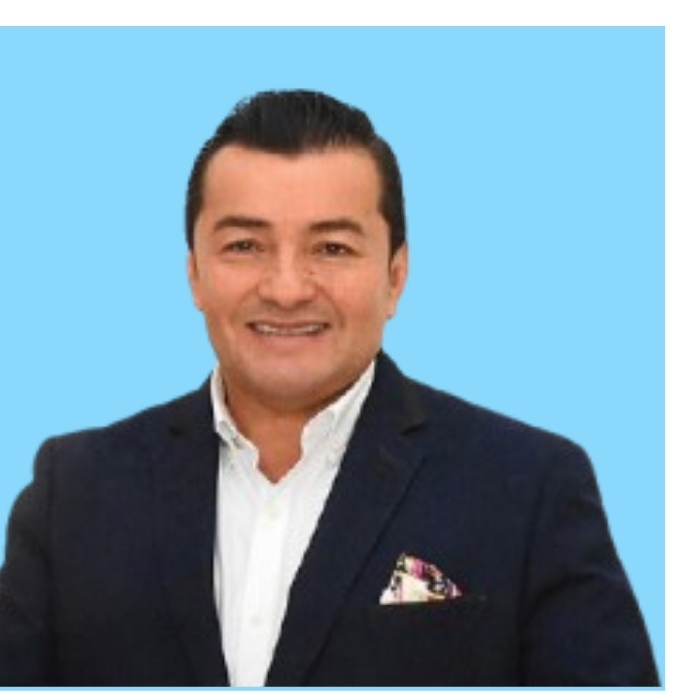
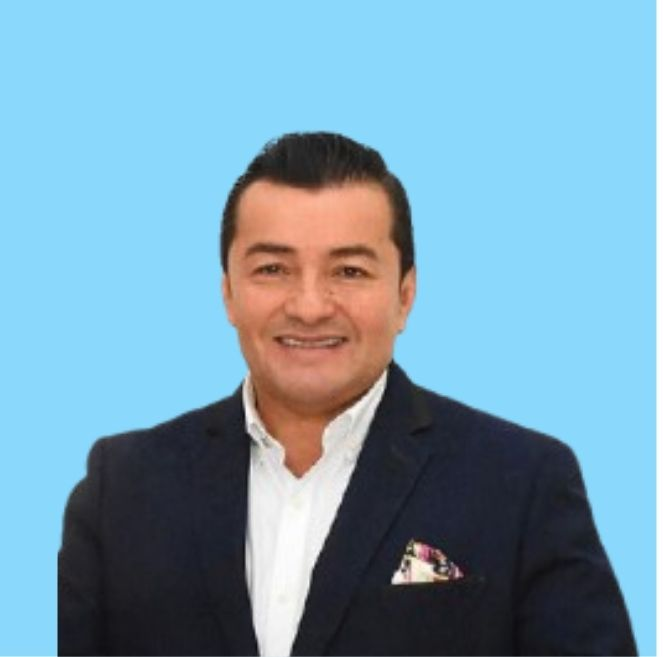
cambios en imagenes ajuste de bordes  y tambien ajuste para compatabilidad movil

diff --git a/components/DepartmentalDashboard.js b/components/DepartmentalDashboard.js
@@ -3,6 +3,7 @@
 
 import React, { useState, useEffect } from 'react';
 import { CANDIDATES } from '../config/candidates';
+import Image from 'next/image';
 
 // --- Estilos ---
 const dashboardStyle = {
@@ -34,9 +35,8 @@ const selectStyle = {
 
 const resultsContainerStyle = {
   display: 'grid',
-  // Se ajusta el número de columnas según el espacio disponible
   gridTemplateColumns: 'repeat(auto-fill, minmax(130px, 1fr))',
-  gap: '30px 20px', // Espacio vertical y horizontal
+  gap: '30px 20px',
 };
 
 const candidateWrapperStyle = {
@@ -55,13 +55,12 @@ const imageStyle = {
   boxShadow: '0 2px 6px rgba(0,0,0,0.15)',
 };
 
-// ✅ Contenedor para el texto que asegura una altura fija
 const textContainerStyle = {
   marginTop: '10px',
-  height: '60px', // Altura fija para alinear todo
+  height: '60px',
   display: 'flex',
   flexDirection: 'column',
-  justifyContent: 'space-between', // Distribuye el espacio
+  justifyContent: 'space-between',
 };
 
 const nameStyle = {
@@ -80,28 +79,33 @@ const percentageStyle = (color) => ({
 
 // --- Componente ---
 export default function DepartmentalDashboard({ allDepartments, departmentalData, nationalData }) {
-  const [selectedDept, setSelectedDept] = useState('');
+  // ✅ 1. El estado ahora inicia en "NIVEL NACIONAL" por defecto.
+  const [selectedDept, setSelectedDept] = useState('NIVEL NACIONAL');
 
   useEffect(() => {
-    if (allDepartments.length > 1) {
-      setSelectedDept(allDepartments.find(dept => dept !== 'NIVEL NACIONAL') || '');
+    // Si la lista de departamentos cambia y el seleccionado no está, se reajusta.
+    if (allDepartments.length > 0 && !allDepartments.includes(selectedDept)) {
+      setSelectedDept('NIVEL NACIONAL');
     }
   }, [allDepartments]);
 
   const calculatePercentage = (votes, total) => (total > 0 ? (votes / total) * 100 : 0);
   
-  const departmentsOnly = allDepartments.filter(dept => dept !== 'NIVEL NACIONAL');
-
-  const dataToShow = departmentalData[selectedDept];
-  const totalVotes = dataToShow?.votos_totales;
+  // ✅ 2. Lógica unificada para seleccionar los datos a mostrar.
+  const isNationalView = selectedDept === 'NIVEL NACIONAL';
+  const dataToShow = isNationalView ? nationalData : departmentalData[selectedDept];
+  const totalVotes = isNationalView ? nationalData.grandTotal : dataToShow?.votos_totales;
 
   const candidateResults = dataToShow
     ? Object.keys(CANDIDATES)
-        .map(id => ({
-          id: id,
-          ...CANDIDATES[id],
-          percentage: calculatePercentage(dataToShow[`votos_${id}`], totalVotes),
-        }))
+        .map(id => {
+          const votes = isNationalView ? dataToShow[`votos_${id}`] : dataToShow[`votos_${id}`];
+          return {
+            id: id,
+            ...CANDIDATES[id],
+            percentage: calculatePercentage(votes || 0, totalVotes || 0),
+          };
+        })
         .sort((a, b) => b.percentage - a.percentage)
     : [];
 
@@ -109,20 +113,30 @@ export default function DepartmentalDashboard({ allDepartments, departmentalData
     <div style={dashboardStyle}>
       <h2 style={headerStyle}>Análisis por Región</h2>
 
-      <select value={selectedDept} onChange={(e) => setSelectedDept(e.target.value)} style={selectStyle}>
-        {departmentsOnly.map(dept => (
+      <select
+        value={selectedDept}
+        onChange={(e) => setSelectedDept(e.target.value)}
+        style={selectStyle}
+      >
+        {/* ✅ 3. Aseguramos que "NIVEL NACIONAL" esté siempre en la lista del filtro. */}
+        {allDepartments.map(dept => (
           <option key={dept} value={dept}>
             {dept}
           </option>
         ))}
       </select>
       
-      {candidateResults.length > 0 ? (
+      {candidateResults.length > 0 && totalVotes > 0 ? (
         <div style={resultsContainerStyle}>
           {candidateResults.map(candidate => (
             <div key={candidate.id} style={candidateWrapperStyle}>
-              <img src={candidate.image} alt={candidate.nombre} style={imageStyle} />
-              {/* ✅ Contenedor de texto aplicado aquí */}
+              <Image 
+                src={candidate.image} 
+                alt={candidate.nombre}
+                width={80}
+                height={80}
+                style={imageStyle} 
+              />
               <div style={textContainerStyle}>
                 <div style={nameStyle}>{candidate.nombre}</div>
                 <div style={percentageStyle(candidate.color)}>{candidate.percentage.toFixed(1)}%</div>

diff --git a/components/ShareModal.js b/components/ShareModal.js
@@ -13,6 +13,8 @@ const modalContentStyle = {
 const closeButtonStyle = {
   background: 'transparent', border: 'none', position: 'absolute',
   top: '10px', right: '15px', fontSize: '24px', cursor: 'pointer',
+  // ✅ Color oscuro para el botón de cerrar
+  color: '#888',
 };
 const shareButtonStyle = {
     display: 'flex', alignItems: 'center', justifyContent: 'center',
@@ -24,8 +26,8 @@ const shareButtonStyle = {
 
 export default function ShareModal({ closeModal }) {
     const shareText = "¡Ya participé en el mapa electoral de #BoliviaDecide! Mira los resultados en tiempo real y suma tu voz: ";
-    // ⬇ ¡IMPORTANTE! Cambia esto por tu URL real cuando publiques el proyecto
-    const shareUrl = "https://bolivia-elecciones.vercel.app/"; // URL de ejemplo
+    // ⬇ ¡IMPORTANTE! Cambia esto por tu URL real de Vercel
+    const shareUrl = "https://bolivia-decide-app.vercel.app/"; // URL de ejemplo
 
     const twitterUrl = `https://twitter.com/intent/tweet?text=${encodeURIComponent(shareText)}&url=${encodeURIComponent(shareUrl)}`;
     const facebookUrl = `https://www.facebook.com/sharer/sharer.php?u=${encodeURIComponent(shareUrl)}`;
@@ -35,8 +37,11 @@ export default function ShareModal({ closeModal }) {
         <div style={modalOverlayStyle} onClick={closeModal}>
             <div style={modalContentStyle} onClick={(e) => e.stopPropagation()}>
                 <button style={closeButtonStyle} onClick={closeModal}>&times;</button>
-                <h2 style={{marginTop: '10px'}}>¡Gracias por Votar!</h2>
-                <p>Tu voz es importante. ¡Ayuda a que otros participen!</p>
+                
+                {/* ✅ CORRECCIÓN: Se añadió un color de texto oscuro */}
+                <h2 style={{marginTop: '10px', color: '#333'}}>¡Gracias por Votar!</h2>
+                <p style={{color: '#555'}}>Tu voz es importante. ¡Ayuda a que otros participen!</p>
+                
                 <div>
                     <a href={twitterUrl} target="_blank" rel="noopener noreferrer" style={{ ...shareButtonStyle, backgroundColor: '#1DA1F2' }}>Compartir en X (Twitter)</a>
                     <a href={facebookUrl} target="_blank" rel="noopener noreferrer" style={{ ...shareButtonStyle, backgroundColor: '#1877F2' }}>Compartir en Facebook</a>

diff --git a/app/page.js b/app/page.js
@@ -24,7 +24,7 @@ const headerStyle = {
   borderBottom: '1px solid #dee2e6',
   marginBottom: '20px',
   backgroundColor: '#f8f9fa',
-  position: 'relative',
+  position: 'relative', // Necesario para la barra tricolor
 };
 
 const tricolorBarStyle = {
@@ -106,17 +106,21 @@ export default function Home() {
   return (
     <main>
       <header style={headerStyle}>
-        <div style={tricolorBarStyle}>
+        <div style={tricolorBarStyle} className="tricolor-bar">
           <div style={{ flex: 1, backgroundColor: '#d92121' }}></div>
           <div style={{ flex: 1, backgroundColor: '#f2c500' }}></div>
           <div style={{ flex: 1, backgroundColor: '#34C759' }}></div>
         </div>
-
-        <div className="header-content" style={{ maxWidth: '1200px', margin: '0 auto' }}>
+        
+        {/* ✅ ESTRUCTURA SIMPLIFICADA PARA EVITAR ERRORES */}
+        <div className="header-content" style={{ maxWidth: '1200px', margin: '0 auto', padding: '0 20px' }}>
           <div className="title-container">
-            <h1 style={titleStyle}>Bolivia Decide</h1>
-            {/* ✅ LÍNEA CORREGIDA PARA EL DEPLOY */}
-            <p style={sloganStyle}>{`"Tu opinión cuenta. Y ahora, se muestra."`}</p>
+            <h1 style={titleStyle} className="main-title">
+              Bolivia Decide
+            </h1>
+            <p style={sloganStyle} className="slogan">
+              {`"Tu opinión cuenta. Y ahora, se muestra."`}
+            </p>
           </div>
           <div className="share-button-container">
             <button 
@@ -148,7 +152,6 @@ export default function Home() {
           justify-content: space-between;
           align-items: center;
           gap: 20px;
-          padding: 0 20px;
         }
         .title-container {
           flex-grow: 1;
@@ -158,6 +161,15 @@ export default function Home() {
           .header-content {
             flex-direction: column;
             gap: 15px;
+          }
+          .tricolor-bar {
+            height: 4px !important;
+          }
+          .main-title {
+            font-size: 1.8rem !important;
+          }
+          .slogan {
+            font-size: 1rem !important;
           }
         }
       `}</style>
